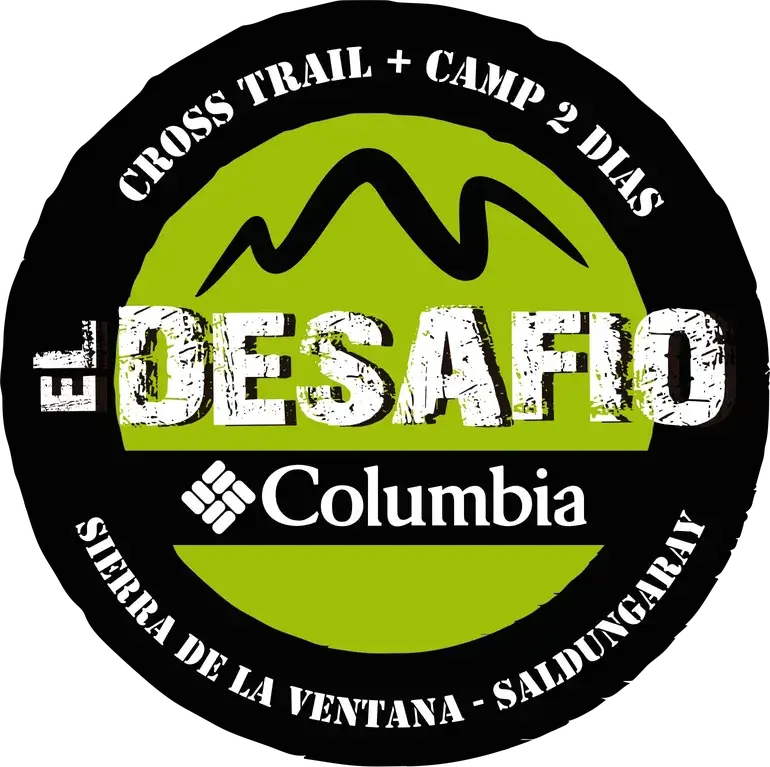
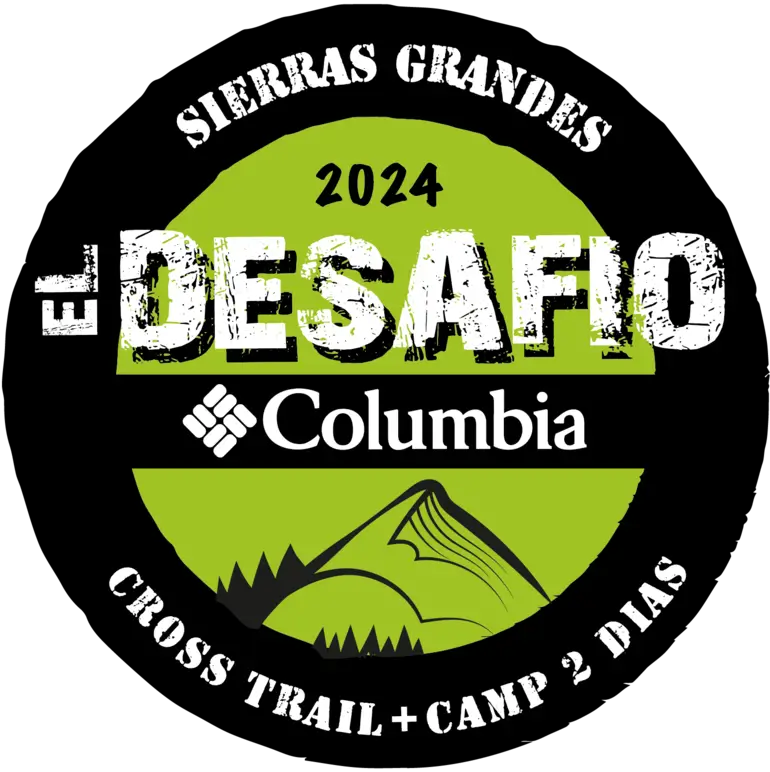
change data columbia

diff --git a/src/Components/Carreras/ElDesafio/Index/ElDesafio.js b/src/Components/Carreras/ElDesafio/Index/ElDesafio.js
@@ -69,7 +69,9 @@ function ElDesafio() {
 
                 <h3 id='cartas'>Cartas</h3>
 
-                <h4><mark style={{textAlign: 'center', display: 'flex', marginBottom: '2rem', justifyContent:'center', padding: '1rem'}}>PRÓXIMAMENTE ACTUALIZAMOS INFORMACIÓN 2024</mark></h4>
+                <p>El lugar del evento (largada, llegada y campamento) será la Reserva Natural Sierras Grandes. Es decir, se realizarán todas las carreras (modalidad 2 día y 1 día) en la Reserva Natural Sierras Grandes, comarca de Tornquist, provincia de Buenos Aires. A tan solo 9 kilómetros del Hotel Provincial Sierra de la Ventana (lugar de acreditación) conocerán un lugar único dentro de la comarca de Tornquist.</p>
+
+               {/*  <h4><mark style={{textAlign: 'center', display: 'flex', marginBottom: '2rem', justifyContent:'center', padding: '1rem'}}>PRÓXIMAMENTE ACTUALIZAMOS INFORMACIÓN 2024</mark></h4> */}
 {/* 
                 <h4><mark style={{ textAlign: 'center', display: 'flex', marginBottom: '1rem' }}>¡ATENCIÓN! Por razones ajenas a la organización tuvimos la suerte y el agrado de conseguir un lugar de ensueño para realizar el DESAFÍO COLUMBIA. ¡Un nuevo lugar, un nuevo desafío que te va a volar la cabeza!</mark></h4>
 
@@ -77,8 +79,8 @@ function ElDesafio() {
 
                 <h4><mark className='mark'>DATOS GENERALES</mark></h4>
                 <p><strong>Carrera:</strong> El Desafío Columbia</p>
-                <p><strong>Fecha:</strong> 28 y 29 de octubre 2023</p>
-                <p><mark className='mark'><strong>NUEVA UBICACIÓN: Reserva Natural Sierras Grandes, comarca de Tornquist, provincia de Buenos Aires.</strong> </mark></p>
+                <p><strong>Fecha:</strong> 5 y 6 de octubre 2024</p>
+                <p><strong>Lugar:</strong> Reserva Natural Sierras Grandes, comarca de Tornquist, provincia de Buenos Aires</p>
                 <p><strong>Concepto:</strong> Carrera de trail running</p>
 
                 <h3>Modalidad</h3>
@@ -95,7 +97,7 @@ function ElDesafio() {
                 <p><strong>- EQUIPO MIXTO:</strong> Sin categoría. *</p>
                 <p><strong>- EQUIPO MASC Y FEM:</strong> Sin categoría. *</p>
                 <p>*Las categorías pueden modificarse en el caso de que se inscriba un grupo grande de corredores en la modalidad.</p>
-                <p><b>LAS EDADES SERÁN COMPUTADAS AL 29 DE OCTUBRE 2023</b></p>
+                <p><b>LAS EDADES SERÁN COMPUTADAS AL 6 DE OCTUBRE 2024</b></p>
                 <p>*La edad mínima para poder correr El Desafío Columbia es a partir de los 16 años.</p>
                 <p>*Los menores de 18 años tendrán que llevar una autorización firmada por los padres para poder correr. De lo contrario, no podrá participar.</p>
                 <div className='contenedorBoton'>
@@ -119,8 +121,8 @@ function ElDesafio() {
                     <li>Chip de control para clasificación</li>
                     <li>Medalla finisher</li>
                     <li>Seguro de corredor</li>
-                    {/* <li>Fotos gratuitas de más de 4 fotógrafos</li>
-                    <li>Video y foto de llegada</li> */}
+                    {/* <li>Fotos gratuitas de más de 4 fotógrafos</li> */}
+                    <li>Video y foto de llegada</li> 
                     <li>Servicio de rescate</li>
                     <li>Servicio de salud</li>
                     <li>Premiación ganadores categoría</li>
@@ -129,23 +131,24 @@ function ElDesafio() {
                 <p><mark className='mark'><b>La organización ofrecerá para el día DOMINGO, traslado desde el HOTEL PROVINCIAL hasta el lugar de la largada para quienes necesiten. Será un único horario de ida y un único horario de vuelta.  Solicitar reserva a info@fcproducciones.com.ar</b></mark></p>
 
                 <h3>ACREDITACIÓN Y ENTREGA DE KITS</h3>
-                <p>Los 3 días se llevarán a cabo en el Hotel Provincial Sierra de la Ventana (Drago 130).</p>
+                <p>Los 3 días se llevarán a cabo en el Hotel Provincial Sierra de la Ventana (Drago 130).</p> 
 
-                <h4><mark className='mark'>- VIERNES 27/10</mark></h4>
+                <h4><mark className='mark'>- VIERNES 04/10</mark></h4>
                 <p>16 a 19hs: Todas las distancias.</p>
                {/*  <h5>¿CÓMO LLEGAR AL HOTEL PROVINCIAL?</h5>
                 <iframe src="https://www.google.com/maps/embed?pb=!1m14!1m8!1m3!1d6426799.178214183!2d-61.798543!3d-38.138204!3m2!1i1024!2i768!4f13.1!3m3!1m2!1s0x95eceecaac28d5a3%3A0x820b68edb61e3981!2sHotel%20Provincial%20Sierra%20de%20la%20Ventana!5e0!3m2!1ses!2sus!4v1682094259680!5m2!1ses!2sus" width="600" height="450" loading="lazy" className='mapas' title='Mapa Hotel Provincial'></iframe> */}
 
-                <h4><mark className='mark'>- SÁBADO 28/10</mark></h4>
-                <p>10 a 14hs: Prioridad 2 días.</p>
-                <p>10 a 19hs: Modalidad 1 día (21K, 10K) y KIDS.</p>
+                <h4><mark className='mark'>- SÁBADO 05/10</mark></h4>
+                <p>10 a 14hs: Acreditación y entrega de kits modalidad 2 días.</p>
+                <p>10 a 17hs: Acreditación y entrega de kits modalidad 1 día: 21K, 10K y Kids.</p>
                 {/* <h5>¿CÓMO LLEGAR AL HOTEL PROVINCIAL?</h5>
                 <iframe src="https://www.google.com/maps/embed?pb=!1m14!1m8!1m3!1d6426799.178214183!2d-61.798543!3d-38.138204!3m2!1i1024!2i768!4f13.1!3m3!1m2!1s0x95eceecaac28d5a3%3A0x820b68edb61e3981!2sHotel%20Provincial%20Sierra%20de%20la%20Ventana!5e0!3m2!1ses!2sus!4v1682094259680!5m2!1ses!2sus" width="600" height="450" loading="lazy" className='mapas' title='Mapa Hotel Provincial'></iframe> */}
 
-                <h4><mark className='mark'>- DOMINGO 29/10</mark></h4>
-                <p>7 a 8:30hs: 21K, 10K, KIDS.</p>
-                {/* <p>La organización ofrecerá para el día DOMINGO, traslado desde el HOTEL PROVINCIAL hasta el lugar de la largada para quienes necesiten. Será un único horario de ida y un único horario de vuelta.  Solicitar reserva a info@fcproducciones.com.ar </p> */}
-                <h5>¿CÓMO LLEGAR A LA ACREDITACIÓN?</h5>
+                <h4><mark className='mark'>- DOMINGO 06/10</mark></h4>
+                {/* <p>7 a 8:30hs: 21K, 10K, KIDS.</p> */}
+                <p>La organización ofrecerá para el día DOMINGO, traslado desde el HOTEL PROVINCIAL hasta el lugar de la largada para quienes necesiten. Será un único horario de ida y un único horario de vuelta.  Solicitar reserva a info@fcproducciones.com.ar</p> 
+                <p>NO HABRÁ ACREDITACIÓN NI INSCRIPCIÓN EN LA RESERVA SIERRAS GRANDES NINGÚN DIA. PUEDEN RETIRAR EL KIT HASTA EL DOMINGO 8.30 HS EN EL HOTEL PROVINCIAL, LUEGO DE ESO NO HABRÁ POSIBILIDAD.</p>
+                <h5>¿CÓMO LLEGAR AL HOTEL PROVINCIAL?</h5>
                 {/* <iframe src="https://www.google.com/maps/embed?pb=!1m14!1m8!1m3!1d6270.811893412615!2d-61.769943000000005!3d-38.200471!3m2!1i1024!2i768!4f13.1!3m3!1m2!1s0x95ece622ae73c7e3%3A0xc719abd95ca6308f!2sCentro%20de%20Interpretaci%C3%B3n%20de%20Obras%20de%20Francisco%20Salamone!5e0!3m2!1ses-419!2sar!4v1682094417742!5m2!1ses-419!2sar" width="600" height="450" loading="lazy" className='mapas' title='Mapa acreditación'></iframe> */}
                 <iframe src="https://www.google.com/maps/embed?pb=!1m14!1m8!1m3!1d6426799.178214183!2d-61.798543!3d-38.138204!3m2!1i1024!2i768!4f13.1!3m3!1m2!1s0x95eceecaac28d5a3%3A0x820b68edb61e3981!2sHotel%20Provincial%20Sierra%20de%20la%20Ventana!5e0!3m2!1ses!2sus!4v1682094259680!5m2!1ses!2sus" width="600" height="450" loading="lazy" className='mapas' title='Mapa Hotel Provincial'></iframe>
                 <p>Por razones operativas, <b>recomendamos no venir el último día</b>. El kit puede retirarlo otra persona llevando los papeles firmados por el titular (ver apartado siguiente).</p>
@@ -153,27 +156,29 @@ function ElDesafio() {
 
 
                 <h3>PAPELES A PRESENTAR EN ACREDITACIÓN</h3>
-                <p>Los inscriptos deberán acreditarse y retirar su kit con la siguiente documentación:</p>
+                <p>ATENCIÓN: FACILITAMOS EL PROCESO DE INSCRIPCIÓN Y DE ACREDITACIÓN. DENTRO DE LA INSCRIPCIÓN ONLINE DEBERÁN FIRMAR VIRTUALMENTE EL DESLINDE DE RESPONSABILIDAD Y TAMBIÉN SUBIR EL APTO MÉDICO. NO ES OBLIGATORIO HACERLO AL MOMENTO DE INSCRIBIRSE, PUEDE REALIZARSE LUEGO SIEMPRE Y CUANDO SEA ANTES DEL EVENTO. LO PUEDEN HACER INGRESANDO A SU INSCRIPCIÓN DENTRO DEL MAIL DE CONFIRMACIÓN DE EVENTOLS.</p>
+                <p><mark>De completar el proceso de inscripción online como corresponde (esto es: completar los datos, firmar el deslinde ONLINE y adjuntar el apto físico) NO DEBERÁN PRESENTAR NINGUNA DOCUMENTACIÓN EN ACREDITACIÓN. Solo presentarse con el DNI.</mark></p>
+                <p>De lo contrario, deberán llevar para acreditarse y retirar su kit la siguiente documentación: </p>
                 <ol>
                     <li>DNI</li>
-                    <li>CERTIFICADO MÉDICO. No aceptamos foto del celular. La organización se quedará con el certificado, por lo que si lo necesitan, traigan copia.</li>
+                    <li>APTO MÉDICO.</li>
                     <div className='contenedorBoton'>
                         <div className='botonIntermedio'>
                             <Button variant="success" size='lg' className='boton'><Link target='_blank' rel="noopener noreferrer" to={AptoMedicoDesafio} download='Apto médico'>DESCARGAR APTO MÉDICO</Link></Button>
                             </div>
                                 </div>
-                    <li>DESLINDE DE RESPONSABILIDAD COMPLETO Y FIRMADO</li>
-                        <div className='contenedorBoton'>
+                    <li>DESLINDE DE RESPONSABILIDAD (SOLICITAR POR MAIL INFO@FCPRODUCCIONES.COM.AR)</li>
+                        {/* <div className='contenedorBoton'>
                             <div className='botonIntermedio'>
                                 <Button variant="success" size='lg' className='boton'><Link target='_blank' rel="noopener noreferrer" to={DeslindeDesafio} download='Deslinde'>DESCARGAR DESLINDE</Link></Button>
                                     </div>
-                                        </div>
-                    <li>AUTORIZACIÓN MENOR DE EDAD. En caso de ser necesario</li>
-                            <div className='contenedorBoton'>
+                                        </div> */}
+                    <li>AUTORIZACIÓN MENOR DE EDAD. En caso de ser necesario (SOLICITAR POR MAIL INFO@FCPRODUCCIONES.COM.AR)</li>
+                           {/*  <div className='contenedorBoton'>
                                 <div className='botonIntermedio'>
                                     <Button variant="success" size='lg' className='boton'><Link target='_blank' rel="noopener noreferrer" to={AutMenoresDesafio} download='Autorización menores'>DESCARGAR AUTORIZACIÓN</Link></Button>
                                         </div>
-                                            </div>
+                                            </div> */}
                 </ol>
 
                 <h3>RETIRO DE KITS POR TERCEROS</h3>
@@ -188,13 +193,13 @@ function ElDesafio() {
                 <h3>LUGAR Y HORARIOS DE LARGADA</h3>
 
                 <h4><mark className='mark'>MODALIDAD 2 DÍAS</mark></h4>
-                <p><strong>- DÍA:</strong> SÁBADO 28/10</p>
+                <p><strong>- DÍA:</strong> SÁBADO 05/10</p>
                 <p><strong>- HORARIO DE SALIDA:</strong> 15 horas</p>
                 <p><strong>- DISTANCIA:</strong> 25 K</p>
                 <p><strong>- MISMO LUGAR DE SALIDA QUE DE LLEGADA:</strong> RESERVA NATURAL SIERRAS GRANDES, TORNQUIST.</p>
 
                 <h4><mark className='mark'>MODALIDAD 2 DÍAS Y 1 DÍA</mark></h4>
-                <p><strong>- DÍA:</strong> DOMINGO 29/10</p>
+                <p><strong>- DÍA:</strong> DOMINGO 06/10</p>
                 <p><strong>- HORARIO DE SALIDA:</strong> 10 horas</p>
                 <p><strong>- DISTANCIA:</strong> 21K Y 10K</p>
                 <p><strong>- MISMO LUGAR DE SALIDA QUE DE LLEGADA:</strong> RESERVA NATURAL SIERRAS GRANDES, TORNQUIST.</p>
@@ -214,33 +219,37 @@ function ElDesafio() {
                 <p><strong>Bebida:</strong> Gaseosas o agua mineral</p>
                 <p><strong>Desayuno:</strong> Té, café, mate cocido con o sin leche. Tostadas y torta casera</p>
                 <ul>
-                    <li><strong>HORARIO DE CENA SÁBADO 28/10:</strong> 20 a 21:30 horas</li>
-                    <li><strong>HORARIO DE DESAYUNO 29/10:</strong> 7 a 8:30 horas</li>
+                    <li><strong>HORARIO DE CENA SÁBADO 05/10:</strong> 20 a 21:30 horas</li>
+                    <li><strong>HORARIO DE DESAYUNO 06/10:</strong> 7 a 8:30 horas</li>
                 </ul>
                 
-                <p><mark className='mark'><strong>NO HAY MÁS LUGAR PARA QUIENES QUIERAN PARTICIPAR DEL CAMPAMENTO DE FORMA ADICIONAL COMO CORREDORES DE UN DIA O ACOMPAÑANTES.</strong></mark></p>
+                {/* <p><mark className='mark'><strong>NO HAY MÁS LUGAR PARA QUIENES QUIERAN PARTICIPAR DEL CAMPAMENTO DE FORMA ADICIONAL COMO CORREDORES DE UN DIA O ACOMPAÑANTES.</strong></mark></p> */}
+
                 {/* <h3>CAMPAMENTO OPCIONAL</h3>
                 <h4><mark className='mark'>SI SOS UN ACOMPAÑANTE, O UN CORREDOR DE UN DÍA Y QUERÉS ACAMPAR, PODÉS</mark></h4>
                 <p>Todos los <b>corredores de un día o acompañantes</b> que quieran <b>participar del campamento</b>, podrán. Se les cobrará un adicional que incluye alojamiento en camping desde el sábado, cena y desayuno.</p>
                 <p>Deberán solicitar la estadía y costo en <b>info@fcproducciones.com.ar</b> y deberán retirar el voucher en la acreditación.</p> */}
 
                 <h3>RECORRIDOS</h3>
-                <p>(PRÓXIMAMENTE)</p>
+                <p  style={{textAlign: "center"}}>(PRÓXIMAMENTE)</p>
 
                 <h3>ALTIMETRÍA</h3>
-                <p>(PRÓXIMAMENTE)</p>
+                <p  style={{textAlign: "center"}}>(PRÓXIMAMENTE)</p>
 
                 <h3>RUNNING KIDS</h3>
                 <p>Tiene como objetivo ofrecer a los más chicos la oportunidad de disfrutar de la aventura de forma sana y no competitiva, siendo protagonistas de un gran evento junto a sus padres o familiares. La distancia kids no será competitiva por lo que no tendrá premiación ni clasificación. Sí contará con remera de corredor, hidratación y medalla finisher.</p>
 
                 <h3 id='inscripcion'>IMPORTANTE: ¿CÓMO ME INSCRIBO?</h3>
-                <h4><mark className='mark'>INSCRIPCIÓN ONLINE CERRADA</mark></h4>
+                <h4><mark className='mark'>INSCRIPCIÓN ONLINE PRÓXIMAMENTE</mark></h4>
                 <p>Los pasos para inscribirse online son:</p>
                 <ol>
                     <li>En caso de tener un código de descuento por ser 10 o más en un running team (leer apartado de teams), colocarlo en su casillero</li>
-                    <li>Elegir la distancia y si abonás el <b>TOTAL</b> o el 50% de seña por transferencia bancaria o depósito bancario. </li>
-                    <li>Completar los datos personales</li>
+                    <li>Elegir la distancia</li>
+                    <li>Completar los datos personales. Firmar el deslinde virtual y adjuntar el apto médico. Si aún no tenés el apto, podes subirlo hasta el día anterior a la carrera desde el estado de tu inscripción. (Ver apartado “a presentar en acreditación”).</li>
                     <li>Abonar vía transferencia o depósito bancario y compartir el comprobante. <b>(IMPORTANTE: si no lo comparten la inscripción queda pendiente y a los 7 días se elimina)</b></li>
+                    <li>Se avisará por mail cuándo es momento de abonar la segunda cuota. Si no abonan la misma, lo abonado en su primer momento pasará como parte de pago del siguiente precio sin descuento.
+
+                    </li>
                     <div className='contenedorBoton'>
                         <div className='botonIntermedio'>
                         <Button disabled variant="success" size='lg' className='boton'><Link target='_blank' rel="noopener noreferrer" to='https://eventols.com/e/desafio-columbia-2023'>INSCRIBITE ACÁ</Link></Button>
@@ -250,9 +259,9 @@ function ElDesafio() {
               
 
                 <h4><mark className='mark'>CÓMO SABER SI REALIZAMOS BIEN EL PROCEDIMIENTO DE INSCRIPCIÓN</mark></h4>
-                <p>Les llegará un mail de confirmación desde Eventols, donde pueden ver el estado de su inscripción, y por ese mismo mail, la clasificación cuando esté disponible. Si el mail no llega es porque indicaron mal su correo o porque está en correo no deseado. Si eso sucede, marcalo como correo deseado y agreganos a tu lista de contactos</p>
+                <p>Les llegará un mail que dice “Inscripción confirmada” desde Eventols, donde pueden ver el estado de su inscripción, y por ese mismo mail, la clasificación cuando esté disponible. Primero les llegará uno que dice “comenzaste el proceso de inscripción” el cual NO indica que estás confirmado. Si el mail de confirmación no llega es porque no terminaron la inscripción, indicaron mal su correo o porque está en correo no deseado. Si eso sucede, marcalo como correo deseado y agreganos a tu lista de contactos.</p>
 
-                <h3>INSCRIPCIÓN PRESENCIAL CERRADA</h3>
+                <h3>INSCRIPCIÓN PRESENCIAL PROXIMAMENTE</h3>
                 <p>Se abona el <b>TOTAL</b> de la carrera únicamente en <b>EFECTIVO</b> en los centros de inscripción.</p>
                 <h4>CENTROS DE INSCRIPCIÓN:</h4>
                 <ul>
@@ -264,8 +273,9 @@ function ElDesafio() {
                 </ul>
 
                 <h3>COSTOS</h3>
-                <p><b>A PARTIR DEL 16/08/2023</b></p>
-                <ul>
+                {/* <p><b>A PARTIR DEL 16/08/2023</b></p> */}
+                <p style={{textAlign: "center"}}>PRÓXIMAMENTE</p>
+               {/*  <ul>
                     <li>2 DÍAS INDIVIDUAL: <strong>$66.000</strong> pago total o 50% por transferencia bancaria al inscribirse y 50% restante en EFECTIVO en acreditación.</li>
                     <li>2 DÍAS EQUIPO: <strong>$132.000</strong> pago total por dos corredores o 50% por transferencia bancaria al inscribirse y 50% restante en EFECTIVO en acreditación.</li>
                     <li>1 DÍA 21K: <strong>$24.000</strong> pago total o 50% por transferencia bancaria al inscribirse y 50% restante en EFECTIVO en acreditación.</li>
@@ -278,24 +288,24 @@ function ElDesafio() {
                             </div>
                                 </div>
                 </ul>
-                
+                 */}
 
                 <h3 id='cronograma'>CRONOGRAMA GENERAL DEL EVENTO</h3>
-               <h4><strong><mark className='mark'>VIERNES 27/10</mark></strong></h4>
+               <h4><strong><mark className='mark'>VIERNES 04/10</mark></strong></h4>
                <ul>
                 <li><strong>16 a 19 hs:</strong> Acreditación y entrega de kits. Hotel Provincial de Sierra de la Ventana, ubicado en Drago 130.</li>
                </ul>
 
-               <h4><strong><mark className='mark'>SÁBADO 28/10</mark></strong></h4>
+               <h4><strong><mark className='mark'>SÁBADO 05/10</mark></strong></h4>
                <ul>
                 <li><strong>10 a 14 hs:</strong> Acreditación y entrega de kits modalidad 2 días: Hotel Provincial de Sierra de la Ventana, ubicado en Drago 130.</li>
-                <li><strong>10 a 19 hs:</strong> Acreditación y entrega de kits modalidad 1 día: 21K, 10K y Kids. Hotel Provincial de Sierra de la Ventana, ubicado en Drago 130.</li>
+                <li><strong>10 a 17 hs:</strong> Acreditación y entrega de kits modalidad 1 día: 21K, 10K y Kids. Hotel Provincial de Sierra de la Ventana, ubicado en Drago 130.</li>
                 <li><strong>14:45 hs:</strong> Charla técnica dos días. Reserva Natural Sierras Grandes, Tornquist.</li>
                 <li><strong>15 hs:</strong> Largada de la modalidad de 2 días: 25K. Reserva Natural Sierras Grandes, Tornquist.</li>
                 <li><strong>20 a 21:30 hs:</strong> Cena en el camping de la Reserva Natural Sierras Grandes, Tornquist.</li>
                </ul>
 
-               <h4><strong><mark className='mark'>DOMINGO 29/10</mark></strong></h4>
+               <h4><strong><mark className='mark'>DOMINGO 06/10</mark></strong></h4>
                <ul>
                 <li><strong>7 a 8:30 hs:</strong> Desayuno en el Camping de Reserva Natural Sierras Grandes, Tornquist.</li>
                 <li><strong>7:30 a 8:30 hs:</strong> Acreditación y entrega de kits (modalidad un día). Hotel Provincial de Sierra de la Ventana, ubicado en Drago 130.</li>
@@ -305,8 +315,8 @@ function ElDesafio() {
                 <li><strong>14 / 14:30 hs:</strong> Premiación (horario aproximado). Reserva Natural Sierras Grandes, Tornquist.</li>
                </ul>
 
-               <h3>ESTACIONAMIENTO DEL DOMINGO</h3>
-               <p>Se cobrará un voucher de $500 para estacionar el día domingo dentro de la Reserva Natural Sierras Grandes. La recaudación se utilizará para colaborar con los viajes de estudio del ciclo superior de la EEST N 1 DE TORNQUIST. Pueden comprar el voucher en la acreditación o al llegar al lugar.</p>
+               <h3>ESTACIONAMIENTO DOMINGO</h3>
+               <p>Se cobrará un voucher para estacionar el día domingo dentro de la Reserva Natural Sierras Grandes. La recaudación se utilizará para colaborar con los viajes de estudio del ciclo superior de la EEST N 1 DE TORNQUIST. Pueden comprar el voucher en la acreditación o al llegar al lugar.</p>
 
                <h3>AVISO DE NO SEÑAL 3G/4G</h3>
                <p>Dentro del campo privado donde se realizará el evento no hay señal 3g ni 4g. Tenerlo en cuenta.</p>
@@ -369,18 +379,18 @@ function ElDesafio() {
                
               
                 <h4><mark className='mark'>TRANSFERENCIA A OTRO CORREDOR</mark></h4>
-                <p>Hasta el viernes 13/10, inclusive, podrá transferir el 100% de lo abonado a otro corredor para la misma edición. Deberá tener en cuenta que: solo se considerarán aquellos casos en que se solicite a la organización por mail y que solamente hasta 15 días antes de la fecha de la carrera podrá transferir su inscripción a otro corredor.</p>
+                <p>Hasta el viernes 20/09, inclusive, podrá transferir el 100% de lo abonado a otro corredor para la misma edición. Deberá tener en cuenta que: solo se considerarán aquellos casos en que se solicite a la organización por mail y que solamente hasta 15 días antes de la fecha de la carrera podrá transferir su inscripción a otro corredor.</p>
                 <p>En caso de no avisar con ese tiempo de anticipación se pierde la inscripción, ya que damos por válida la asistencia y reservamos su remera, dorsal, hidratación, seguro y más.</p>
 
                 <h4><mark className='mark'>TRANSFERENCIA POR NO PODER PARTICIPAR</mark></h4>
-                <p>Hasta el viernes 13/10, inclusive, podrá transferir el 100% de lo abonado a cuenta de la inscripción únicamente de la edición del año siguiente de la organización. De optar por esta opción, la inscripción próxima será intransferible para otra edición o participante y sin devolución total o parcial.</p>
+                <p>Hasta el viernes 20/09, inclusive, podrá transferir el 100% de lo abonado a cuenta de la inscripción únicamente de la edición del año siguiente de la organización. De optar por esta opción, la inscripción próxima será intransferible para otra edición o participante y sin devolución total o parcial.</p>
               
     
                <h3>CAMBIO DE DISTANCIA O DE OTRO TIPO</h3>
                <p>Para los corredores que se hayan inscripto, en caso de querer cambiar de distancia, tener en cuenta que:</p>
                <ol>
                 <li>Solo se considerarán aquellos casos en que se solicite al mail de la organización: <b>info@fcproducciones.com.ar</b></li>
-                <li>A partir del lunes 16/10 NO se aceptarán más modificaciones en las inscripciones realizadas, ya sea de talle de remera, cambio de distancia o similar.</li>
+                <li>A partir del lunes 23/09 NO se aceptarán más modificaciones en las inscripciones realizadas, ya sea de talle de remera, cambio de distancia o similar.</li>
                 <li>Si el cambio es a una distancia mayor, abona la diferencia del monto de inscripción.</li>
                 <li>Si el cambio es a una distancia menor, NO se le devolverá dinero</li>
                </ol>
